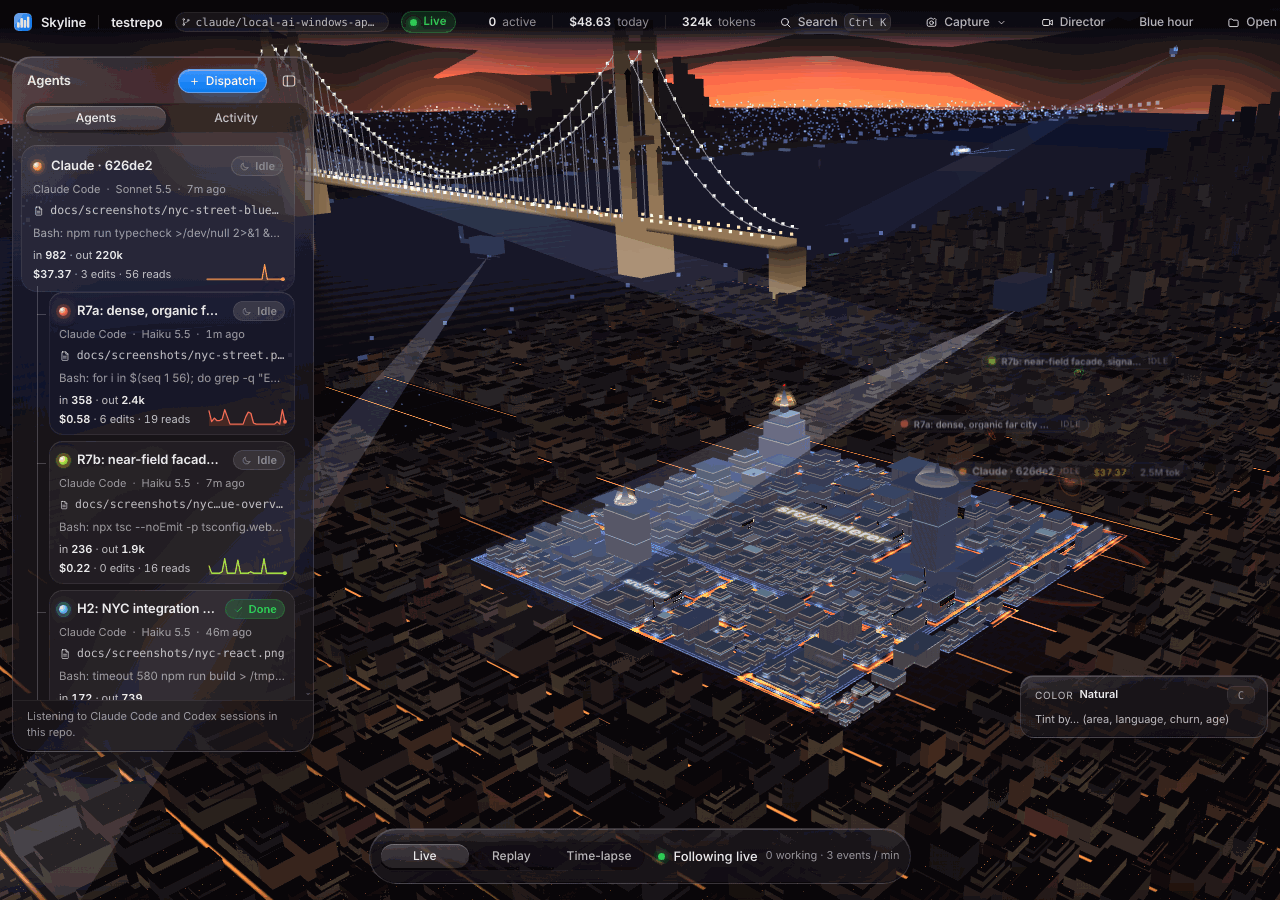
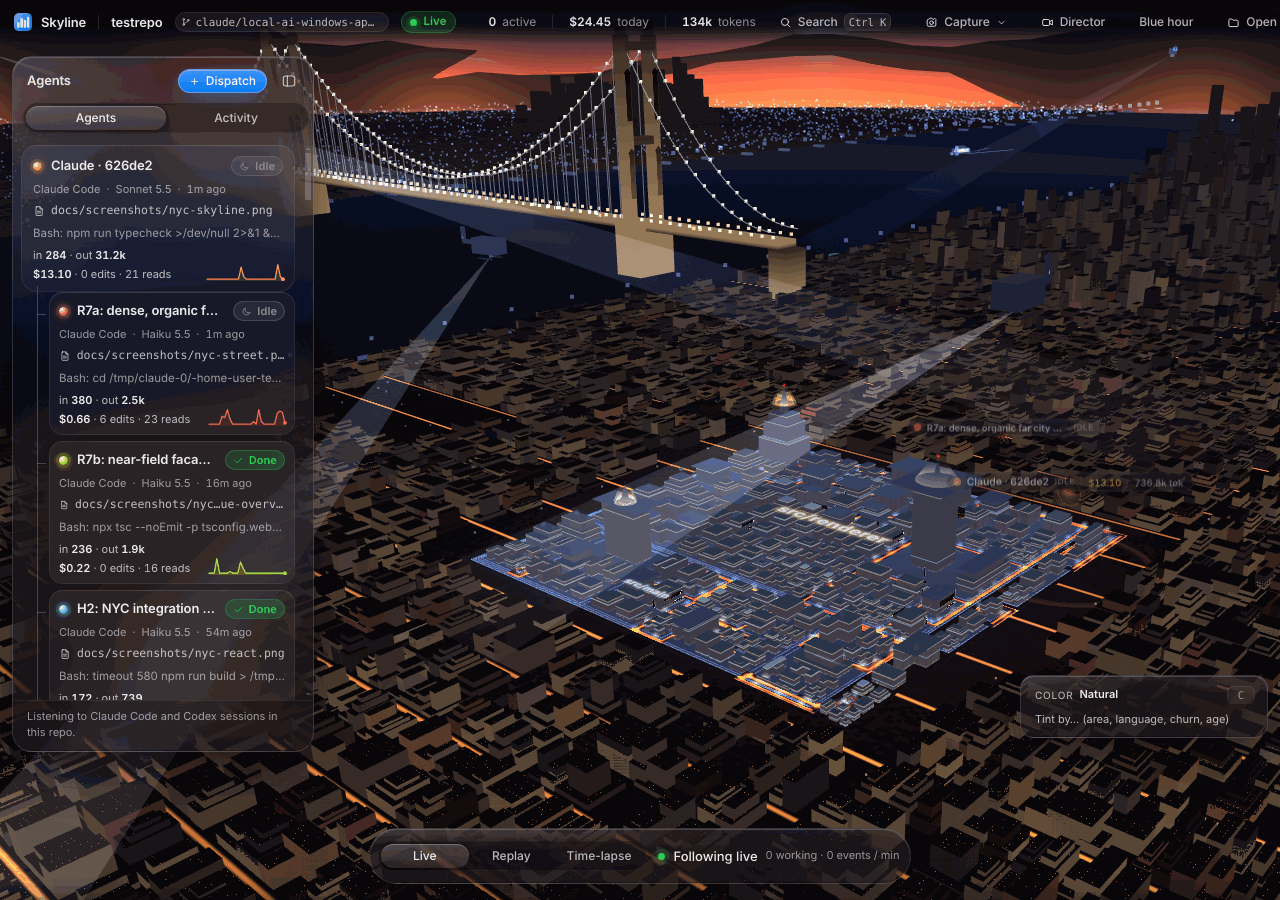
Brighter warm far-city carpet, street haze, rooftop specks; refreshed overview screenshots
Claude-Session: https://claude.ai/code/session_01L1TEW9iMr6nvGwNt7qQcrD

diff --git a/src/renderer/src/city/Metropolis.tsx b/src/renderer/src/city/Metropolis.tsx
@@ -170,7 +170,7 @@ void main() {
   float run = step(0.9, h21(vec2(cell.y, sd + 3.0))) * step(0.5, dens);
   float lit = max(step(r, dens), run);
   // Office towers: most panes lit.
-  if (kind > 0.5 && kind < 1.5) lit = max(lit, step(0.12, r));
+  if (kind > 0.5 && kind < 1.5) lit = max(lit, step(0.3, r));
 
   // Warm 2400 to 3200 K (#ffd9a0 and #ffc27a) 72 %, cool white 20 %, TV blue 8 %; each pane varies by 30 %.
   float kc = h21(cell * 1.3 + sd + 4.0);
@@ -191,9 +191,9 @@ void main() {
   float vfw = max(vfwv.x, vfwv.y);
   if (n.y > 0.5) {
     vec3 tar = vec3(0.016, 0.016, 0.02) * (0.7 + 0.8 * h21(vec2(vSeed * 13.0, 2.0)));
-    float vent = step(0.8, h21(vcell + vSeed * 31.0)) * (1.0 - smoothstep(0.06, 0.12, length(vf)));
+    float vent = step(0.6, h21(vcell + vSeed * 31.0)) * (1.0 - smoothstep(0.06, 0.12, length(vf)));
     vent *= 1.0 - smoothstep(0.3, 0.6, vfw);
-    col = tar + vec3(1.0, 0.6, 0.3) * vent * 0.55;
+    col = tar + vec3(1.0, 0.6, 0.3) * vent * 0.8;
   }
   // Tall lots: a thin lit crown on about 15 % of them.
   float crownGate = step(0.85, h21(vec2(vSeed * 71.0, 9.0)));
@@ -246,6 +246,8 @@ void main() {
   col += sodium * vBright * 0.035 * uNight * (1.0 - smoothstep(0.3, 1.0, abs(vAcross)));
   float dist = length(vW - cameraPosition);
   float fog = 1.0 - exp(-pow(dist * uFogK, 2.0));
+  // Faint continuous street-light haze across the whole line, on top of the thin core.
+  col += sodium * vBright * 0.06 * (1.0 - smoothstep(0.0, 1.0, abs(vAcross)));
   col *= 1.0 - 0.85 * fog;
   gl_FragColor = vec4(col * 1.5, 1.0);
 }`
@@ -414,7 +416,21 @@ export function Metropolis() {
     const lmat = new PointsMaterial({ color: new Color('#ffb469'), size: 1.6, sizeAttenuation: false, transparent: true, depthWrite: false, blending: AdditiveBlending, toneMapped: false })
     const lamps = new Points(lg, lmat)
     lamps.frustumCulled = false
-    return { mesh, geo, mat, lamps, lg, lmat }
+    // Intersection sparkles: a warm point where each avenue crosses a cross street, outside the repo square.
+    const ip: number[] = []
+    for (let x = -1800; x <= 1800; x += 72) {
+      for (let z = -1800; z <= 1800; z += 22) {
+        if (Math.hypot(x, z) > 1800 || (Math.abs(x) < size / 2 && Math.abs(z) < size / 2)) continue
+        if (Math.abs(x) >= 250 && Math.abs(x) <= 700) continue
+        ip.push(x, LIGHT_Y + 0.1, z)
+      }
+    }
+    const ig = new BufferGeometry()
+    ig.setAttribute('position', new BufferAttribute(new Float32Array(ip), 3))
+    const imat = new PointsMaterial({ color: new Color('#ffa860'), size: 2.2, sizeAttenuation: false, transparent: true, depthWrite: false, blending: AdditiveBlending, toneMapped: false })
+    const sparkles = new Points(ig, imat)
+    sparkles.frustumCulled = false
+    return { mesh, geo, mat, lamps, lg, lmat, sparkles, ig, imat }
   }, [plan])
 
   const horizon = useMemo(() => {
@@ -441,7 +457,7 @@ export function Metropolis() {
   useEffect(() => {
     // The far average of the windows is the warm carpet of light: stronger at night, moderate at blue hour.
     facade.uniforms.uNight!.value = night ? 1.6 : 1.0
-    facade.uniforms.uWinGain!.value = night ? 2.6 : 1.15
+    facade.uniforms.uWinGain!.value = night ? 3.9 : 2.07
     lines.mat.uniforms.uNight!.value = night ? 1.6 : 1.0
   }, [night, facade, lines])
 
@@ -457,6 +473,8 @@ export function Metropolis() {
     parks.mat.dispose()
     parks.lg.dispose()
     parks.lmat.dispose()
+    parks.ig.dispose()
+    parks.imat.dispose()
   }, [parks])
   useEffect(() => () => {
     horizon.geo.dispose()
@@ -469,6 +487,7 @@ export function Metropolis() {
       {built.meshes.map((m, i) => <primitive key={i} object={m} />)}
       <primitive object={parks.mesh} />
       <primitive object={parks.lamps} />
+      <primitive object={parks.sparkles} />
       <primitive object={lines.mesh} />
       <primitive object={horizon.mesh} />
     </>

diff --git a/src/renderer/src/city/metro.ts b/src/renderer/src/city/metro.ts
@@ -394,10 +394,15 @@ function styleFor(c: Cand, h: number, seed: number): [number, number, number, nu
   const pitch = hash3(c.i, c.j, c.key, seed ^ 0x52)
   const pal = Math.floor(hash3(c.i, c.j, c.key, seed ^ 0x53) * 4)
   const kindU = hash3(c.i, c.j, c.key, seed ^ 0x54)
-  let density = 0.12 + 0.5 * a
-  if (a < 0.12) density = 0.03
+  // Far city: 40 to 55 % of windows lit, and about a quarter of the buildings are bright offices (60 to 80 % lit).
+  const far = c.r >= MID_RADIUS
+  let density = far ? 0.4 + 0.15 * a : 0.12 + 0.5 * a
+  if (!far && a < 0.12) density = 0.03
   let kind = 0
-  if (h > 14 && kindU < 0.06) {
+  if (far && kindU < 0.25) {
+    kind = 1
+    density = 0.6 + 0.2 * a
+  } else if (!far && h > 14 && kindU < 0.06) {
     kind = 1
     density = 0.8
   } else if (kindU > 0.92) {
@@ -551,7 +556,7 @@ function buildLines(R: number, half: number, seed: number): LineSet {
     const reach = Math.sqrt(R * R - fixed * fixed)
     const [nx, nz] = avenue ? [U_X, U_Z] : [V_X, V_Z]
     // Thin, continuous lines (a 2 unit avenue, a 1 unit street), flush with the ground.
-    const hw = avenue ? 1.0 : 0.55
+    const hw = avenue ? 1.6 : 0.9
     const b = avenue ? 1 : 0.75
     const lineSeed = hash3(Math.round(fixed * 10), avenue ? 1 : 2, 0, seed ^ 0x5eed)
     const blocked: Array<[number, number]> = []
